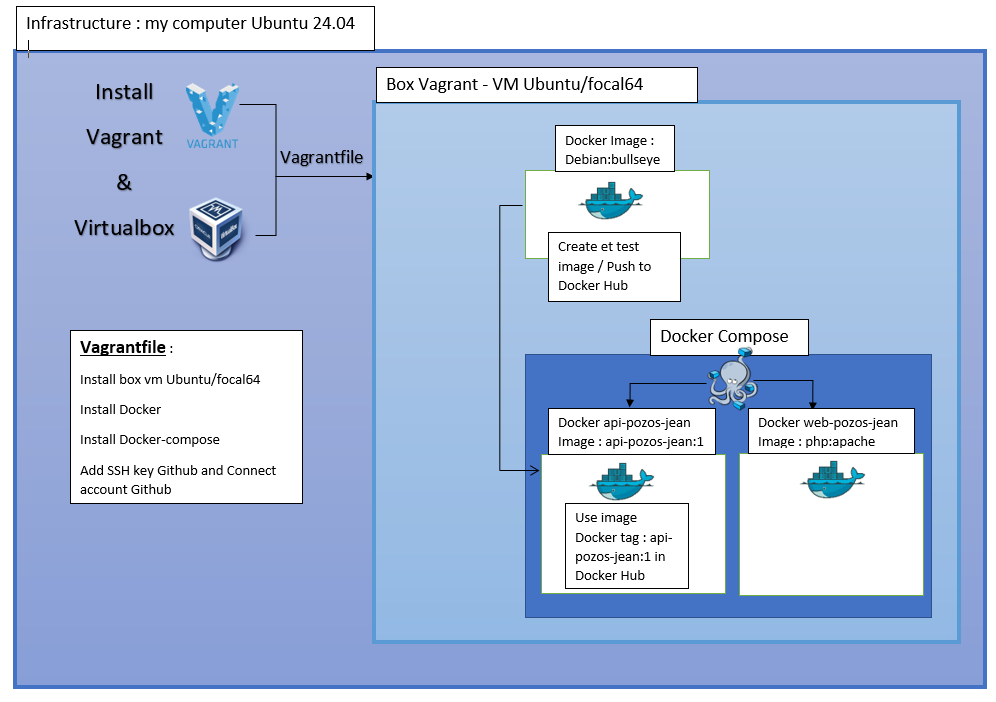
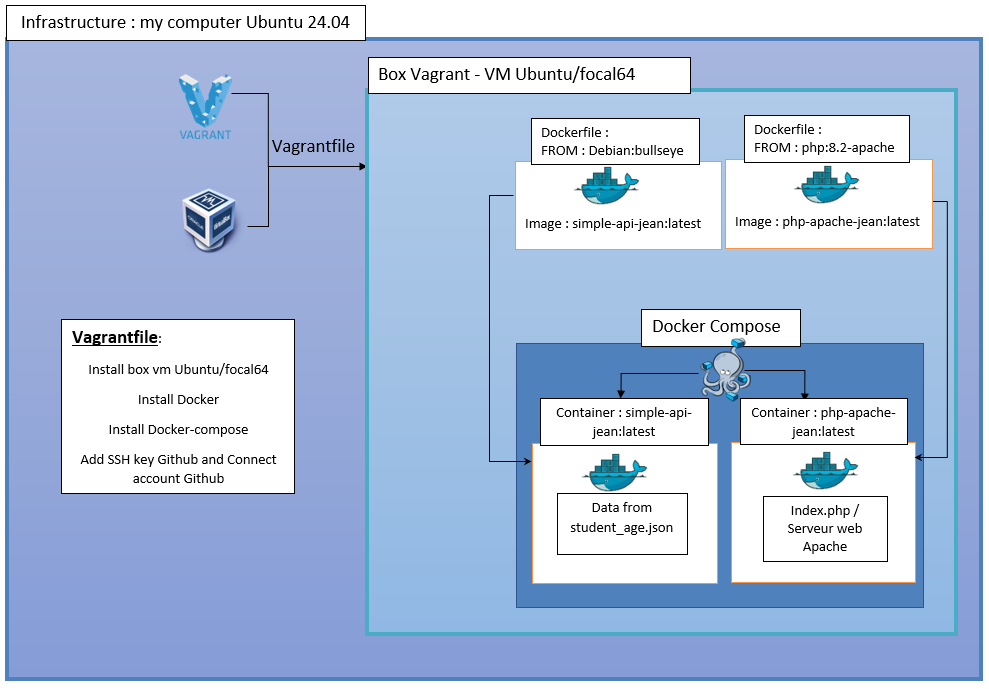
Update project

diff --git a/README.md b/README.md
@@ -31,10 +31,23 @@
 * ### create image Docker
 * ### connect to Docker Hub
 * ### Push image on Docker Hub
-
-
-## To test the API
+* ### Run docker-compose
+#
+## Test the API in command line :
 ### curl -u jean:agree -X GET http://127.0.0.1:4000/simple-jean/api/v1.0/get_student_ages
 
 ### curl -u jean:agree -X GET http://localhost:4000/simple-jean/api/v1.0/get_student_ages
+
+### output :
+### {
+###  "student_ages": {
+###    "alice": "12", 
+###    "bob": "13"
+###  }
+### }
+
+## Test the API in a browser :
+
+### <ip_vm>:8082
+
 
